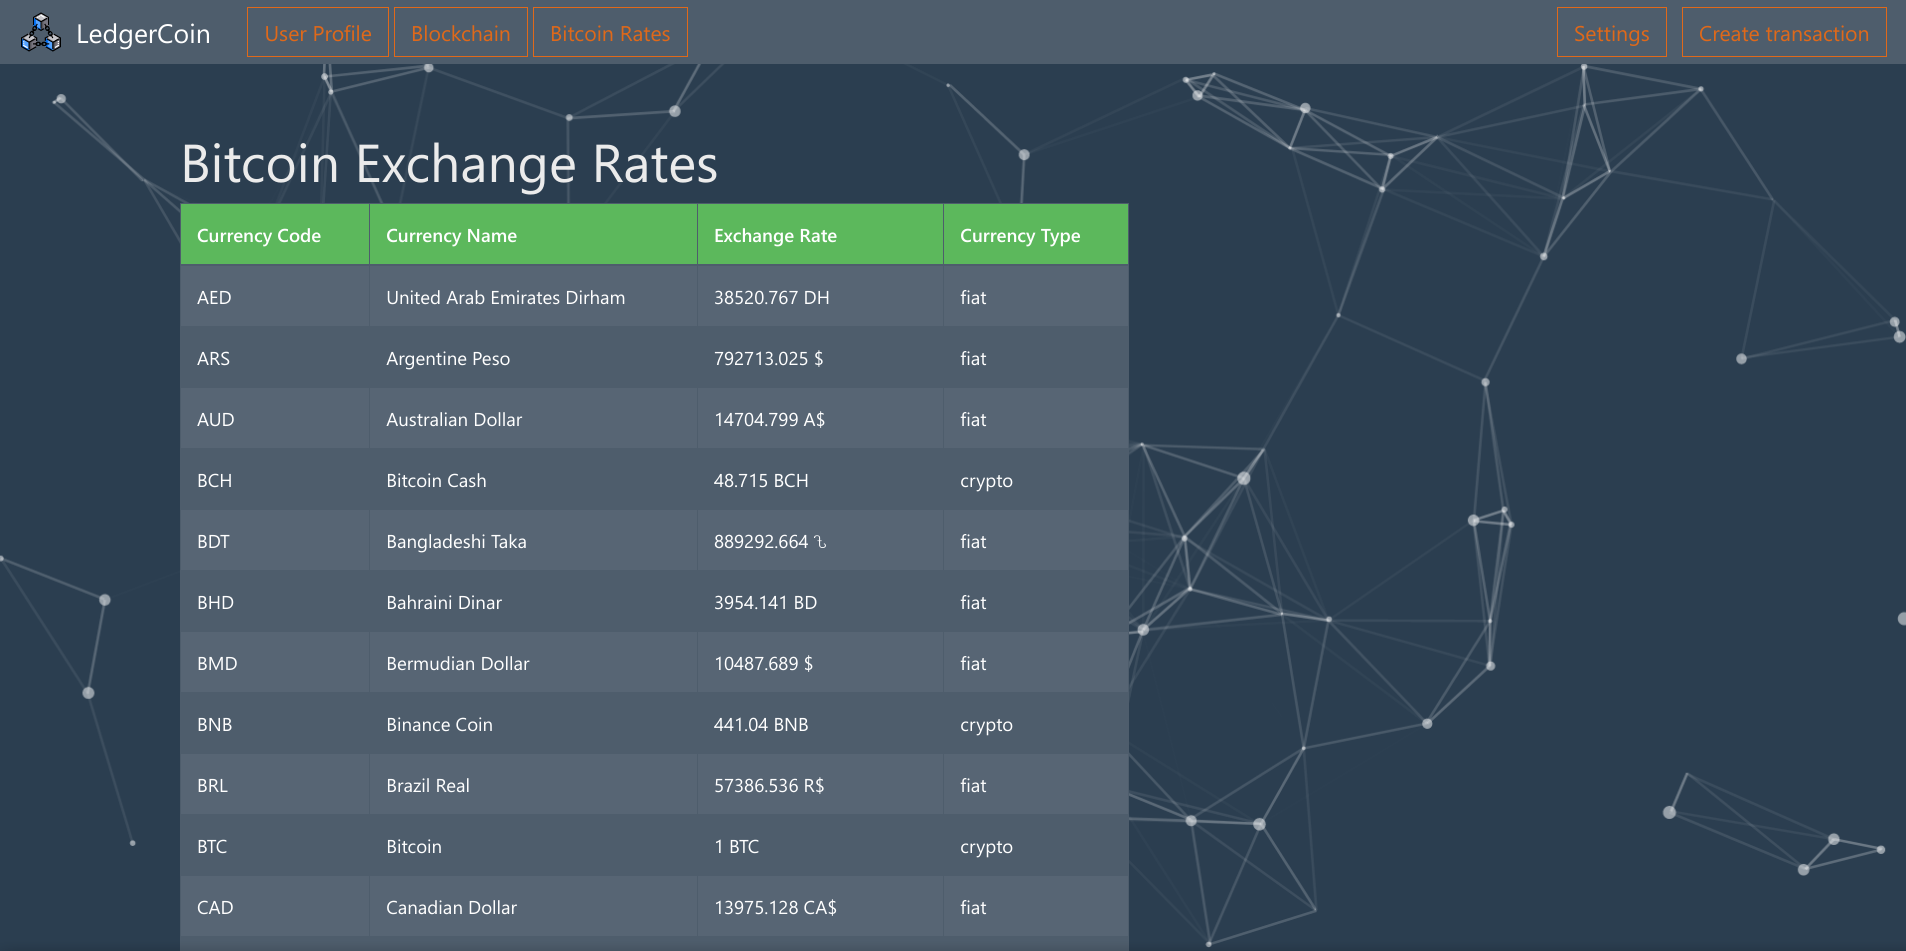
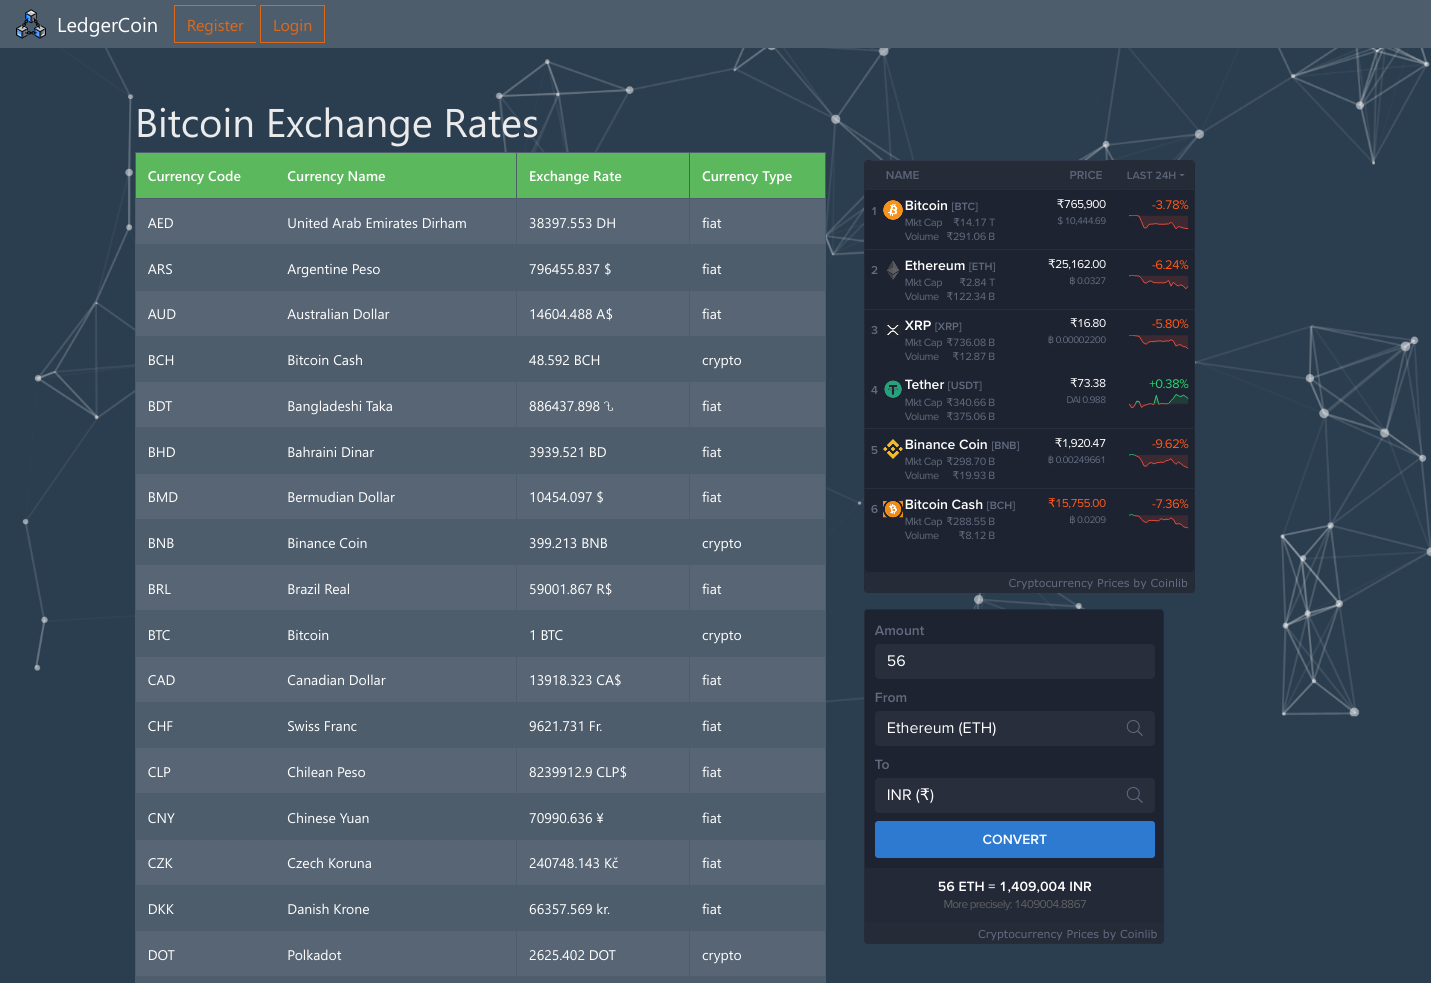
added coinlib.io widgets

diff --git a/frontend/src/app/components/cryptodata/cryptodata.component.html b/frontend/src/app/components/cryptodata/cryptodata.component.html
@@ -1,24 +1,159 @@
-<br>
-<br>
-<div class="container" style="margin-left: 120px;"> 
-<h1>Bitcoin Exchange Rates</h1> 
+<br />
+<br />
 
-<table class="table table-hover table-dark table-striped table-bordered" id='tab' > 
-    <thead> 
-    <tr class="bg-success text-white"> 
-        <th scope="col">Currency Code</th> 
-        <th scope="col">Currency Name</th> 
-        <th scope="col">Exchange Rate</th> 
-        <th scope="col">Currency Type</th>
-    </tr> 
-    </thead> 
-    <tbody> 
-    <tr *ngFor="let e of firstthree.rates | keyvalue"> 
-        <td style="text-transform: uppercase;">{{ e.key}}</td> 
-        <td>{{ e.value.name }}</td> 
-        <td>{{ e.value.value }}  <span [innerHTML]="e.value.unit"></span></td>  
-        <td>{{ e.value.type }}</td>
-    </tr> 
-    </tbody> 
-</table>           
+<div class="container" style="margin-left: 120px">
+  <h1>Bitcoin Exchange Rates</h1>
+  <div class="row">
+    <div class="col-xs-12 col-md-8">
+      <table
+        class="table table-hover table-dark table-striped table-bordered"
+        id="tab"
+      >
+        <thead>
+          <tr class="bg-success text-white">
+            <th scope="col">Currency Code</th>
+            <th scope="col">Currency Name</th>
+            <th scope="col">Exchange Rate</th>
+            <th scope="col">Currency Type</th>
+          </tr>
+        </thead>
+        <tbody>
+          <tr *ngFor="let e of firstthree.rates | keyvalue">
+            <td style="text-transform: uppercase">{{ e.key }}</td>
+            <td>{{ e.value.name }}</td>
+            <td>
+              {{ e.value.value }} <span [innerHTML]="e.value.unit"></span>
+            </td>
+            <td>{{ e.value.type }}</td>
+          </tr>
+        </tbody>
+      </table>
+    </div>
+
+    <div class="d-table col-xs-6 col-md-4">
+      <div class="d-flex flex-column">
+        <div
+          class="m-2"
+          style="
+            height: 433px;
+            background-color: #1d2330;
+            overflow: hidden;
+            box-sizing: border-box;
+            border: 1px solid #282e3b;
+            border-radius: 4px;
+            text-align: right;
+            line-height: 14px;
+            font-size: 12px;
+            font-feature-settings: normal;
+            text-size-adjust: 100%;
+            box-shadow: inset 0 -20px 0 0 #262b38;
+            padding: 0px;
+            margin: 0px;
+            width: 100%;
+          "
+        >
+          <div style="height: 413px; padding: 0px; margin: 0px; width: 100%">
+            <iframe
+              src="https://widget.coinlib.io/widget?type=full_v2&theme=dark&cnt=6&pref_coin_id=1530&graph=yes"
+              width="100%"
+              height="409px"
+              scrolling="auto"
+              marginwidth="0"
+              marginheight="0"
+              frameborder="0"
+              border="0"
+              style="border: 0; margin: 0; padding: 0"
+            ></iframe>
+          </div>
+          <div
+            style="
+              color: #626b7f;
+              line-height: 14px;
+              font-weight: 400;
+              font-size: 11px;
+              box-sizing: border-box;
+              padding: 2px 6px;
+              width: 100%;
+              font-family: Verdana, Tahoma, Arial, sans-serif;
+            "
+          >
+            <a
+              href="https://coinlib.io"
+              target="_blank"
+              style="
+                font-weight: 500;
+                color: #626b7f;
+                text-decoration: none;
+                font-size: 11px;
+              "
+              >Cryptocurrency Prices</a
+            >&nbsp;by Coinlib
+          </div>
+        </div>
+
+        <div
+          class="m-2"
+          style="
+            width: 300px;
+            height: 335px;
+            background-color: #232937;
+            overflow: hidden;
+            box-sizing: border-box;
+            border: 1px solid #282e3b;
+            border-radius: 4px;
+            text-align: right;
+            line-height: 14px;
+            block-size: 335px;
+            font-size: 12px;
+            font-feature-settings: normal;
+            text-size-adjust: 100%;
+            box-shadow: inset 0 -20px 0 0 #262b38;
+            margin: 0;
+            width: 300px;
+            padding: 1px;
+            padding: 0px;
+            margin: 0px;
+          "
+        >
+          <div style="height: 315px; padding: 0px; margin: 0px; width: 100%">
+            <iframe
+              src="https://widget.coinlib.io/widget?type=converter&theme=dark"
+              width="300"
+              height="310px"
+              scrolling="auto"
+              marginwidth="0"
+              marginheight="0"
+              frameborder="0"
+              border="0"
+              style="border: 0; margin: 0; padding: 0"
+            ></iframe>
+          </div>
+          <div
+            style="
+              color: #626b7f;
+              line-height: 14px;
+              font-weight: 400;
+              font-size: 11px;
+              box-sizing: border-box;
+              padding: 2px 6px;
+              width: 100%;
+              font-family: Verdana, Tahoma, Arial, sans-serif;
+            "
+          >
+            <a
+              href="https://coinlib.io"
+              target="_blank"
+              style="
+                font-weight: 500;
+                color: #626b7f;
+                text-decoration: none;
+                font-size: 11px;
+              "
+              >Cryptocurrency Prices</a
+            >&nbsp;by Coinlib
+          </div>
+        </div>
+      </div>
+    </div>
+  </div>
 </div>
